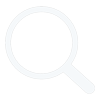
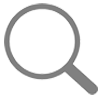
业绩查询统计UI界面

Changed region(s): [[0.03, 0.03, 0.99, 0.96]]

diff --git a/src/main/webapp/resources/wx/js/performance.js b/src/main/webapp/resources/wx/js/performance.js
@@ -18,10 +18,38 @@ var main = new Vue({
     }
 });
 
-var main = new Vue({
+var header = new Vue({
     el: "#header",
-    data: {},
+    data: {
+        emps:[],
+    },
     methods: {
+        /**
+         * 点击任意地方关闭弹窗
+         */
+        end: function () {
+            $(".alert_body").animate({
+                marginTop: '-100rem',
+            });
+            setTimeout(function () {
+                $(".alert_model").hide();
+            }, 500);
+        },
+        /**
+         * 点击关闭按钮动画
+         */
+        hide: function () {
+            $(".alert_body").animate({
+                marginTop: '-100rem',
+            });
+            setTimeout(function () {
+                $(".alert_model").hide();
+            }, 500);
+
+        },
+        /**
+         * 点击查询打开模态框
+         */
         vivw: function () {
 
             $("#header").animate({
@@ -29,14 +57,26 @@ var main = new Vue({
             });
         },
         /**
-         * 点击选择员工打开模态框
+         * 点击员工获取员工列表
          */
         open: function () {
-                $(".alert_model").show();
+            header.$http.post("/wx/employee/queryPageList", {"userKey": myCache.userKey}, {emulateJSON: true}).then(function (res) {
+                // console.log(res.body);
+                // [{name:xxx,emp_no:xxx},{name:xxx,emp_no:xxx},{name:xxx,emp_no:xxx}]
+                header.emps = res.body.data;
+            }, function (res) {
+
+            });
+
+            $(".alert_model").show();
 
             $(".alert_body").animate({
                 marginTop: '40rem',
             });
+
+        },
+        click: function () {
+            toastr.info("你选择了确定");
         }
     },
     /**
@@ -56,29 +96,7 @@ var main = new Vue({
     el: "#main",
     data: {},
     methods: {
-        /**
-         * 点击任意地方关闭弹窗
-         */
-        end: function () {
-            $(".alert_body").animate({
-                marginTop: '-50rem',
-            });
-            setTimeout(function () {
-                $(".alert_model").hide();
-            }, 500);
-        },
-        /**
-         * 点击关闭按钮动画
-         */
-        hide: function () {
-            $(".alert_body").animate({
-                marginTop: '-50rem',
-            });
-            setTimeout(function () {
-                $(".alert_model").hide();
-            }, 500);
 
-        }
 
     },
     mounted: function () {

diff --git a/src/main/webapp/resources/wx/css/performance.css b/src/main/webapp/resources/wx/css/performance.css
@@ -45,20 +45,15 @@ header .search .active{
     margin: 2rem auto !important;
 }
 #magnifying{
-    width: 120px;
-    height: 120px;
     text-align: center;
-    top: 170px;
-    border-radius: 50%;
     position: fixed;
+    border-radius: 4px;
     right: 2rem;
-    background: #c0c0c0;
+    /*background: #e3e3e3;*/
 }
 #magnifying img{
     width: auto;
     height: auto;
-    width: 70%;
-    height: 70%;
     margin-left: 5px;
     margin-top: 14px;
 }
@@ -92,9 +87,8 @@ header .search .active{
 .alert_body{
     width: 90%;
     background: #fff;
-    margin: 10% auto;
+    margin: -90% auto;
     border-radius: 2rem;
-    /*display: none;*/
 }
 .alert-title{
     height: 15rem;
@@ -108,6 +102,7 @@ header .search .active{
     line-height: 15rem;
     letter-spacing: 4rem;
     margin-left: 4rem;
+    color: black;
 }
 .alert-title span{
     font-size: 4rem;
@@ -140,3 +135,6 @@ header .search .active{
     padding: 2rem;
 }
 /*-------模态框结束------*/
+.modal-text .row .col-sm-4{
+    margin-bottom: 2rem;
+}

diff --git a/src/main/webapp/resources/wx/plugin/toastr/toastr.css b/src/main/webapp/resources/wx/plugin/toastr/toastr.css
@@ -7,6 +7,7 @@
     word-wrap: break-word;
     font-size: 5rem;
     text-align: center;
+    margin-left: 5rem;
 }
 
 .toast-message a,
@@ -280,10 +281,3 @@ button.toast-close-button {
         padding: 15px 50px 15px 15px;
     }
 }
-
-/*.toast-center-center {*/
-/*top: 45%;*/
-/*left: 50%;*/
-/*margin-top: -25px;*/
-/*margin-left: -300px;*/
-/*}*/
